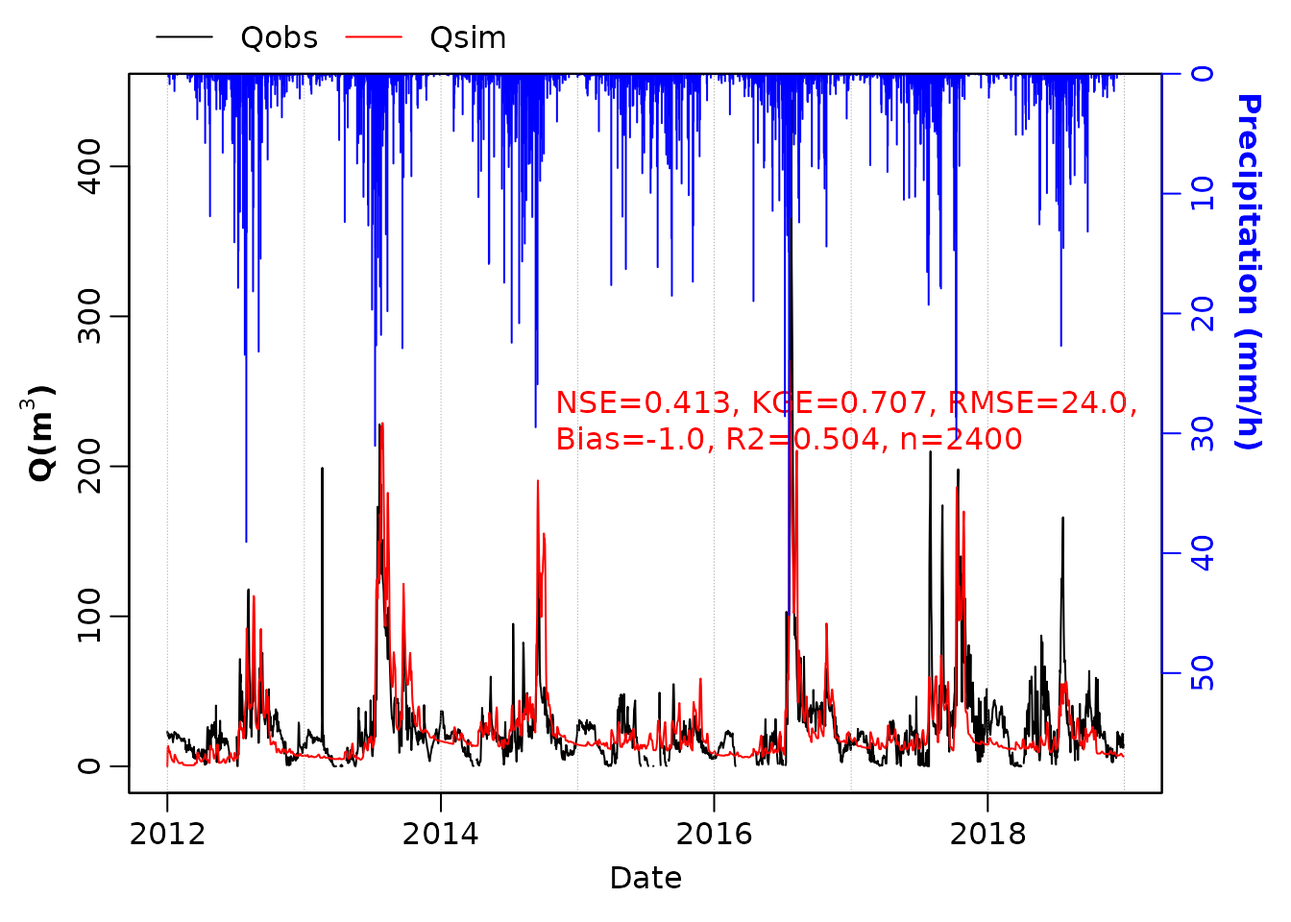
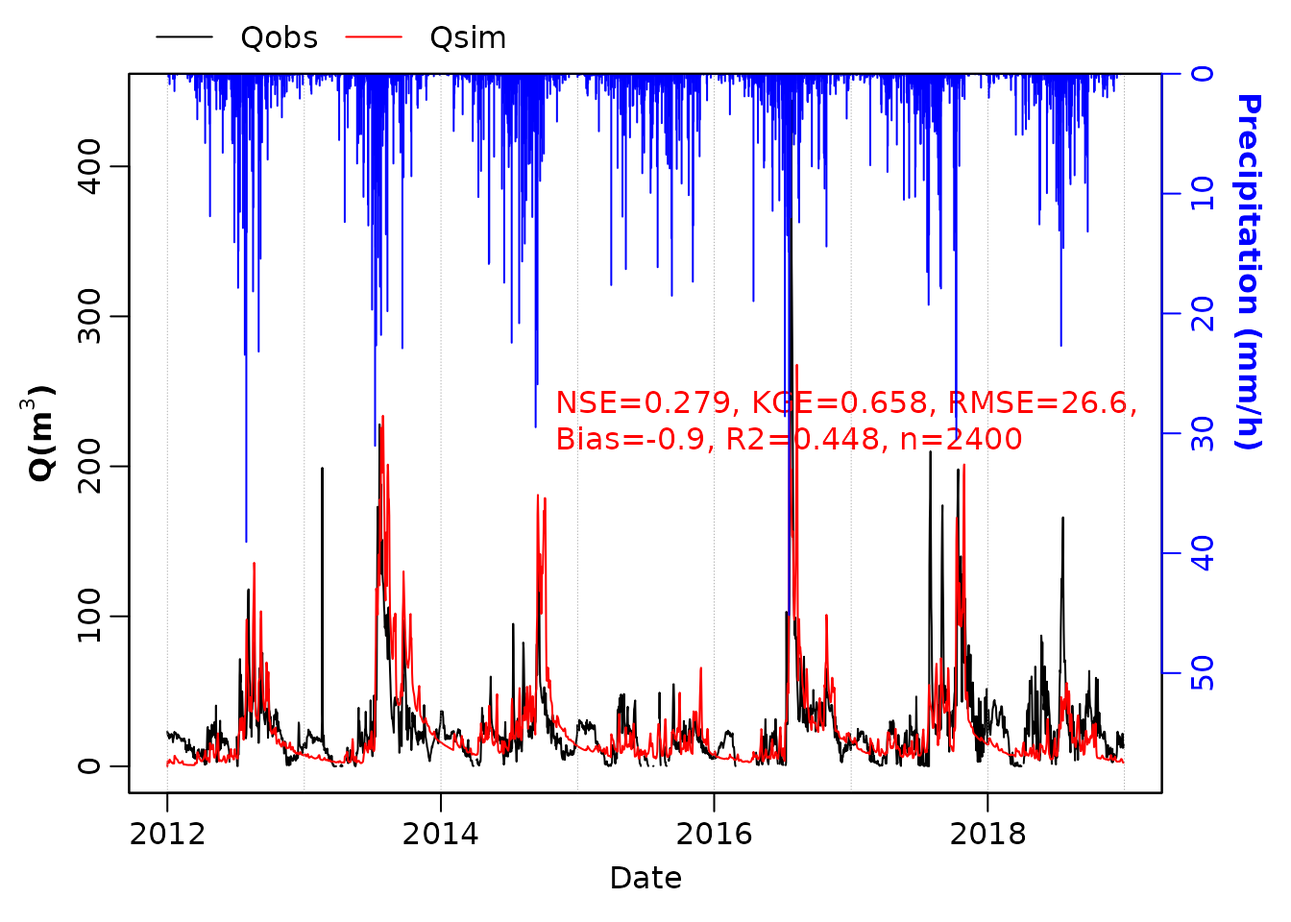
Deploying to gh-pages from @ CUG-hydro/hydroTools@e607863d7434b7680bc60937867b2390d8fc11ee 🚀

diff --git a/articles/calim_XAJ.html b/articles/calim_XAJ.html
@@ -117,6 +117,19 @@ Rcpp版的XAJ模型为钟睿达师弟所写，使用请正确引用。</p>
 <p>下文模拟的是2021年10月山西暴雨中心的汾河流域，河津站。以2012-2018年作为率定期，将该时段的所有数据拿来训练。可以看到KGE最终可达0.707。</p>
 <div class="sourceCode" id="cb1"><pre class="downlit sourceCode r">
 <code class="sourceCode R"><span><span class="kw"><a href="https://rdrr.io/r/base/library.html" class="external-link">library</a></span><span class="op">(</span><span class="va">hydroTools</span><span class="op">)</span> <span class="co"># remotes::install_github("rpkgs/hydroTools")</span></span>
+<span><span class="co">#&gt; The legacy packages maptools, rgdal, and rgeos, underpinning the sp package,</span></span>
+<span><span class="co">#&gt; which was just loaded, will retire in October 2023.</span></span>
+<span><span class="co">#&gt; Please refer to R-spatial evolution reports for details, especially</span></span>
+<span><span class="co">#&gt; https://r-spatial.org/r/2023/05/15/evolution4.html.</span></span>
+<span><span class="co">#&gt; It may be desirable to make the sf package available;</span></span>
+<span><span class="co">#&gt; package maintainers should consider adding sf to Suggests:.</span></span>
+<span><span class="co">#&gt; The sp package is now running under evolution status 2</span></span>
+<span><span class="co">#&gt;      (status 2 uses the sf package in place of rgdal)</span></span>
+<span><span class="co">#&gt; Please note that 'maptools' will be retired during October 2023,</span></span>
+<span><span class="co">#&gt; plan transition at your earliest convenience (see</span></span>
+<span><span class="co">#&gt; https://r-spatial.org/r/2023/05/15/evolution4.html and earlier blogs</span></span>
+<span><span class="co">#&gt; for guidance);some functionality will be moved to 'sp'.</span></span>
+<span><span class="co">#&gt;  Checking rgeos availability: FALSE</span></span>
 <span></span>
 <span><span class="va">infile</span> <span class="op">=</span> <span class="fu"><a href="https://rdrr.io/r/base/system.file.html" class="external-link">system.file</a></span><span class="op">(</span><span class="st">"extdata/XAJ_input_Hejin_2012-2018.rda"</span>, package <span class="op">=</span> <span class="st">"hydroTools"</span><span class="op">)</span></span>
 <span><span class="fu"><a href="https://rdrr.io/r/base/load.html" class="external-link">load</a></span><span class="op">(</span><span class="va">infile</span><span class="op">)</span></span>
@@ -124,40 +137,11 @@ Rcpp版的XAJ模型为钟睿达师弟所写，使用请正确引用。</p>
 <span><span class="va">df</span> <span class="op">=</span> <span class="va">input</span><span class="op">$</span><span class="va">data</span></span>
 <span><span class="va">res</span> <span class="op">&lt;-</span> <span class="fu"><a href="../reference/XAJ_calib.html">XAJ_calib</a></span><span class="op">(</span><span class="va">df</span><span class="op">$</span><span class="va">Qobs</span>, <span class="va">df</span><span class="op">$</span><span class="va">prcp</span>, <span class="va">df</span><span class="op">$</span><span class="va">ET0</span>, date <span class="op">=</span> <span class="va">df</span><span class="op">$</span><span class="va">date</span>,</span>
 <span>    <span class="va">input</span><span class="op">$</span><span class="va">area</span>, dt <span class="op">=</span> <span class="fl">24</span>, maxn <span class="op">=</span> <span class="fl">1000</span><span class="op">)</span></span>
-<span><span class="co">#&gt; 52 best -0.071 function convergence 200 parameter convergence 7798.76 </span></span>
-<span><span class="co">#&gt; 81 best -0.071 function convergence 200 parameter convergence 6580.998 </span></span>
-<span><span class="co">#&gt; 111 best -0.131 function convergence 200 parameter convergence 5480.133 </span></span>
-<span><span class="co">#&gt; 143 best -0.215 function convergence 200 parameter convergence 4733.328 </span></span>
-<span><span class="co">#&gt; 171 best -0.307 function convergence 200 parameter convergence 4350.594 </span></span>
-<span><span class="co">#&gt; 204 best -0.348 function convergence -132 parameter convergence 4276.417 </span></span>
-<span><span class="co">#&gt; 234 best -0.432 function convergence -144 parameter convergence 3623.459 </span></span>
-<span><span class="co">#&gt; 266 best -0.579 function convergence -126 parameter convergence 3126.294 </span></span>
-<span><span class="co">#&gt; 296 best -0.593 function convergence -93.7 parameter convergence 2813.707 </span></span>
-<span><span class="co">#&gt; 327 best -0.63 function convergence -69 parameter convergence 1995.129 </span></span>
-<span><span class="co">#&gt; 356 best -0.65 function convergence -60.4 parameter convergence 1642.616 </span></span>
-<span><span class="co">#&gt; 384 best -0.657 function convergence -41.2 parameter convergence 1447.285 </span></span>
-<span><span class="co">#&gt; 410 best -0.665 function convergence -13.9 parameter convergence 1075.695 </span></span>
-<span><span class="co">#&gt; 437 best -0.671 function convergence -12.3 parameter convergence 887.2404 </span></span>
-<span><span class="co">#&gt; 466 best -0.676 function convergence -7.02 parameter convergence 851.3788 </span></span>
-<span><span class="co">#&gt; 495 best -0.683 function convergence -4.93 parameter convergence 603.4246 </span></span>
-<span><span class="co">#&gt; 522 best -0.685 function convergence -4.18 parameter convergence 568.879 </span></span>
-<span><span class="co">#&gt; 549 best -0.688 function convergence -3.37 parameter convergence 520.1898 </span></span>
-<span><span class="co">#&gt; 580 best -0.694 function convergence -3.35 parameter convergence 538.2989 </span></span>
-<span><span class="co">#&gt; 614 best -0.696 function convergence -2.98 parameter convergence 527.9092 </span></span>
-<span><span class="co">#&gt; 640 best -0.697 function convergence -2.11 parameter convergence 372.9265 </span></span>
-<span><span class="co">#&gt; 669 best -0.7 function convergence -2.09 parameter convergence 361.8326 </span></span>
-<span><span class="co">#&gt; 697 best -0.702 function convergence -2.09 parameter convergence 334.4351 </span></span>
-<span><span class="co">#&gt; 726 best -0.703 function convergence -1.28 parameter convergence 308.2153 </span></span>
-<span><span class="co">#&gt; 755 best -0.706 function convergence -1.37 parameter convergence 285.4627 </span></span>
-<span><span class="co">#&gt; 785 best -0.706 function convergence -1.21 parameter convergence 268.4868 </span></span>
-<span><span class="co">#&gt; 818 best -0.706 function convergence -0.881 parameter convergence 230.1033 </span></span>
-<span><span class="co">#&gt; 847 best -0.706 function convergence -0.569 parameter convergence 178.9205 </span></span>
-<span><span class="co">#&gt; 872 best -0.706 function convergence -0.476 parameter convergence 139.1498 </span></span>
-<span><span class="co">#&gt; 904 best -0.707 function convergence -0.145 parameter convergence 92.73729 </span></span>
-<span><span class="co">#&gt; 930 best -0.707 function convergence -0.166 parameter convergence 70.60406 </span></span>
-<span><span class="co">#&gt; 955 best -0.707 function convergence -0.147 parameter convergence 62.88353 </span></span>
-<span><span class="co">#&gt; 981 best -0.707 function convergence -0.0969 parameter convergence 55.37127 </span></span>
-<span><span class="co">#&gt; 1008 best -0.707 function convergence -0.0591 parameter convergence 34.78426</span></span>
+<span><span class="co">#&gt; 332 best -0.146 function convergence 200 parameter convergence 9806.662 </span></span>
+<span><span class="co">#&gt; 517 best -0.366 function convergence 200 parameter convergence 9521.885 </span></span>
+<span><span class="co">#&gt; 707 best -0.425 function convergence 200 parameter convergence 8104.431 </span></span>
+<span><span class="co">#&gt; 890 best -0.577 function convergence 200 parameter convergence 6517.944 </span></span>
+<span><span class="co">#&gt; 1077 best -0.659 function convergence 200 parameter convergence 5783.561</span></span>
 <span></span>
 <span><span class="fu"><a href="https://rdrr.io/r/base/print.html" class="external-link">print</a></span><span class="op">(</span><span class="fu"><a href="https://rdrr.io/r/utils/str.html" class="external-link">str</a></span><span class="op">(</span><span class="va">res</span><span class="op">)</span>, <span class="fl">2</span><span class="op">)</span></span>
 <span><span class="co">#&gt; List of 4</span></span>
@@ -166,43 +150,43 @@ Rcpp版的XAJ模型为钟睿达师弟所写，使用请正确引用。</p>
 <span><span class="co">#&gt;   ..$ prcp: num [1:2556] 0 0.02 0.04 0.25 0.01 0 0.87 0.01 0 0 ...</span></span>
 <span><span class="co">#&gt;   ..$ ET0 : num [1:2556] 0.28 0.77 0.715 0.35 0.275 ...</span></span>
 <span><span class="co">#&gt;   ..$ Qobs: num [1:2556] 23.2 21.1 20.5 21.9 19.6 18.5 20.7 20.7 19.3 20.8 ...</span></span>
-<span><span class="co">#&gt;   ..$ Qsim: num [1:2556] 0 12.3 13.6 12.4 10.8 ...</span></span>
+<span><span class="co">#&gt;   ..$ Qsim: num [1:2556] 0 3.44 3.32 2.96 2.63 ...</span></span>
 <span><span class="co">#&gt;   ..- attr(*, ".internal.selfref")=&lt;externalptr&gt; </span></span>
 <span><span class="co">#&gt;  $ gof         : tibble [1 × 11] (S3: tbl_df/tbl/data.frame)</span></span>
-<span><span class="co">#&gt;   ..$ R        : num 0.71</span></span>
-<span><span class="co">#&gt;   ..$ pvalue   : num 0</span></span>
-<span><span class="co">#&gt;   ..$ R2       : num 0.504</span></span>
-<span><span class="co">#&gt;   ..$ NSE      : num 0.413</span></span>
-<span><span class="co">#&gt;   ..$ KGE      : num 0.707</span></span>
-<span><span class="co">#&gt;   ..$ RMSE     : num 24</span></span>
-<span><span class="co">#&gt;   ..$ MAE      : num 14.5</span></span>
-<span><span class="co">#&gt;   ..$ Bias     : num -1.04</span></span>
-<span><span class="co">#&gt;   ..$ Bias_perc: num -0.0391</span></span>
-<span><span class="co">#&gt;   ..$ AI       : num 0.834</span></span>
+<span><span class="co">#&gt;   ..$ R        : num 0.669</span></span>
+<span><span class="co">#&gt;   ..$ pvalue   : num 8.69e-312</span></span>
+<span><span class="co">#&gt;   ..$ R2       : num 0.448</span></span>
+<span><span class="co">#&gt;   ..$ NSE      : num 0.279</span></span>
+<span><span class="co">#&gt;   ..$ KGE      : num 0.658</span></span>
+<span><span class="co">#&gt;   ..$ RMSE     : num 26.6</span></span>
+<span><span class="co">#&gt;   ..$ MAE      : num 15.9</span></span>
+<span><span class="co">#&gt;   ..$ Bias     : num -0.933</span></span>
+<span><span class="co">#&gt;   ..$ Bias_perc: num -0.035</span></span>
+<span><span class="co">#&gt;   ..$ AI       : num 0.806</span></span>
 <span><span class="co">#&gt;   ..$ n_sim    : int 2400</span></span>
 <span><span class="co">#&gt;  $ model       :List of 3</span></span>
-<span><span class="co">#&gt;   ..$ par : Named num [1:15] 1.45202 0.00799 19.03719 79.44638 56.03892 ...</span></span>
+<span><span class="co">#&gt;   ..$ par : Named num [1:15] 1.44554 0.00843 19.80357 85.75426 57.61422 ...</span></span>
 <span><span class="co">#&gt;   .. ..- attr(*, "names")= chr [1:15] "KC" "IM" "WUM" "WLM" ...</span></span>
 <span><span class="co">#&gt;   ..$ area: num 38900</span></span>
 <span><span class="co">#&gt;   ..$ dt  : num 24</span></span>
 <span><span class="co">#&gt;  $ intermediate:'data.frame':    2556 obs. of  17 variables:</span></span>
 <span><span class="co">#&gt;   ..$ date: Date[1:2556], format: "2012-01-01" "2012-01-02" ...</span></span>
-<span><span class="co">#&gt;   ..$ E   : num [1:2556] 0.406 1.118 1.039 0.508 0.399 ...</span></span>
-<span><span class="co">#&gt;   ..$ EU  : num [1:2556] 0.406 1.118 1.039 0.508 0.399 ...</span></span>
+<span><span class="co">#&gt;   ..$ E   : num [1:2556] 0.405 1.113 1.034 0.506 0.398 ...</span></span>
+<span><span class="co">#&gt;   ..$ EU  : num [1:2556] 0.405 1.113 1.034 0.506 0.398 ...</span></span>
 <span><span class="co">#&gt;   ..$ EL  : num [1:2556] 0 0 0 0 0 0 0 0 0 0 ...</span></span>
 <span><span class="co">#&gt;   ..$ ED  : num [1:2556] 0 0 0 0 0 0 0 0 0 0 ...</span></span>
-<span><span class="co">#&gt;   ..$ W   : num [1:2556] 123 122 121 121 120 ...</span></span>
-<span><span class="co">#&gt;   ..$ WU  : num [1:2556] 14.8 13.7 12.7 12.5 12.1 ...</span></span>
-<span><span class="co">#&gt;   ..$ WL  : num [1:2556] 63.6 63.6 63.6 63.6 63.6 ...</span></span>
-<span><span class="co">#&gt;   ..$ WD  : num [1:2556] 44.8 44.8 44.8 44.8 44.8 ...</span></span>
+<span><span class="co">#&gt;   ..$ W   : num [1:2556] 130 129 128 128 127 ...</span></span>
+<span><span class="co">#&gt;   ..$ WU  : num [1:2556] 15.4 14.3 13.4 13.1 12.7 ...</span></span>
+<span><span class="co">#&gt;   ..$ WL  : num [1:2556] 68.6 68.6 68.6 68.6 68.6 ...</span></span>
+<span><span class="co">#&gt;   ..$ WD  : num [1:2556] 46.1 46.1 46.1 46.1 46.1 ...</span></span>
 <span><span class="co">#&gt;   ..$ R   : num [1:2556] 0 0 0 0 0 ...</span></span>
-<span><span class="co">#&gt;   ..$ RS  : num [1:2556] 0.00 1.60e-04 3.20e-04 2.00e-03 7.99e-05 ...</span></span>
-<span><span class="co">#&gt;   ..$ RI  : num [1:2556] 0.92766 0.22936 0.05682 0.01426 0.00357 ...</span></span>
-<span><span class="co">#&gt;   ..$ RG  : num [1:2556] 0.7281 0.18 0.0446 0.0112 0.0028 ...</span></span>
-<span><span class="co">#&gt;   ..$ Q   : num [1:2556] 0 12.3 13.6 12.4 10.8 ...</span></span>
-<span><span class="co">#&gt;   ..$ QS  : num [1:2556] 0.00 4.82e-07 1.85e-06 9.43e-06 1.76e-05 ...</span></span>
-<span><span class="co">#&gt;   ..$ QI  : num [1:2556] 0 11.9 13.1 11.9 10.4 ...</span></span>
-<span><span class="co">#&gt;   ..$ QG  : num [1:2556] 0 0.364 0.453 0.474 0.478 ...</span></span>
+<span><span class="co">#&gt;   ..$ RS  : num [1:2556] 0.00 1.69e-04 3.37e-04 2.11e-03 8.43e-05 ...</span></span>
+<span><span class="co">#&gt;   ..$ RI  : num [1:2556] 8.74e-01 7.11e-02 5.80e-03 4.79e-04 3.94e-05 ...</span></span>
+<span><span class="co">#&gt;   ..$ RG  : num [1:2556] 6.57e-01 5.35e-02 4.36e-03 3.60e-04 2.97e-05 ...</span></span>
+<span><span class="co">#&gt;   ..$ Q   : num [1:2556] 0 3.44 3.32 2.96 2.63 ...</span></span>
+<span><span class="co">#&gt;   ..$ QS  : num [1:2556] 0.00 2.23e-10 1.06e-09 5.73e-09 1.60e-08 ...</span></span>
+<span><span class="co">#&gt;   ..$ QI  : num [1:2556] 0 3.07 2.93 2.58 2.25 ...</span></span>
+<span><span class="co">#&gt;   ..$ QG  : num [1:2556] 0 0.363 0.389 0.387 0.383 ...</span></span>
 <span><span class="co">#&gt; NULL</span></span></code></pre></div>
 <p>从图来看，模型整体模拟结果尚可。但部分洪水过程无法捕捉到（如2018年春秋季节），怀疑是流域内水库放水的人为活动影响所致。</p>
 <div class="sourceCode" id="cb2"><pre class="downlit sourceCode r">
@@ -226,13 +210,13 @@ Rcpp版的XAJ模型为钟睿达师弟所写，使用请正确引用。</p>
 <div class="sourceCode" id="cb3"><pre class="downlit sourceCode r">
 <code class="sourceCode R"><span><span class="va">res_valid</span> <span class="op">=</span> <span class="fu"><a href="../reference/XAJ_predict.html">XAJ_predict</a></span><span class="op">(</span><span class="va">res</span><span class="op">$</span><span class="va">model</span>, newdata <span class="op">=</span> <span class="va">df</span><span class="op">)</span></span>
 <span><span class="fu"><a href="https://rdrr.io/r/utils/head.html" class="external-link">head</a></span><span class="op">(</span><span class="va">res_valid</span><span class="op">)</span></span>
-<span><span class="co">#&gt;          date Qobs prcp       ET0      Qsim</span></span>
-<span><span class="co">#&gt; 1: 2012-01-01 23.2 0.00 0.2798821  0.000000</span></span>
-<span><span class="co">#&gt; 2: 2012-01-02 21.1 0.02 0.7696797 12.292826</span></span>
-<span><span class="co">#&gt; 3: 2012-01-03 20.5 0.04 0.7152260 13.581305</span></span>
-<span><span class="co">#&gt; 4: 2012-01-04 21.9 0.25 0.3498458 12.412039</span></span>
-<span><span class="co">#&gt; 5: 2012-01-05 19.6 0.01 0.2750719 10.844921</span></span>
-<span><span class="co">#&gt; 6: 2012-01-06 18.5 0.00 0.3265188  9.365454</span></span></code></pre></div>
+<span><span class="co">#&gt;          date Qobs prcp       ET0     Qsim</span></span>
+<span><span class="co">#&gt; 1: 2012-01-01 23.2 0.00 0.2798821 0.000000</span></span>
+<span><span class="co">#&gt; 2: 2012-01-02 21.1 0.02 0.7696797 3.435587</span></span>
+<span><span class="co">#&gt; 3: 2012-01-03 20.5 0.04 0.7152260 3.319556</span></span>
+<span><span class="co">#&gt; 4: 2012-01-04 21.9 0.25 0.3498458 2.964277</span></span>
+<span><span class="co">#&gt; 5: 2012-01-05 19.6 0.01 0.2750719 2.632883</span></span>
+<span><span class="co">#&gt; 6: 2012-01-06 18.5 0.00 0.3265188 2.341542</span></span></code></pre></div>
 <p>安装方法</p>
 <div class="sourceCode" id="cb4"><pre class="downlit sourceCode r">
 <code class="sourceCode R"><span><span class="fu">remotes</span><span class="fu">::</span><span class="fu">install_github</span><span class="op">(</span><span class="st">"rpkgs/hydroTools"</span><span class="op">)</span></span></code></pre></div>

diff --git a/articles/calib_lm.html b/articles/calib_lm.html
@@ -108,6 +108,19 @@
 </h2>
 <div class="sourceCode" id="cb1"><pre class="downlit sourceCode r">
 <code class="sourceCode R"><span><span class="kw"><a href="https://rdrr.io/r/base/library.html" class="external-link">library</a></span><span class="op">(</span><span class="va">hydroTools</span><span class="op">)</span></span>
+<span><span class="co">#&gt; The legacy packages maptools, rgdal, and rgeos, underpinning the sp package,</span></span>
+<span><span class="co">#&gt; which was just loaded, will retire in October 2023.</span></span>
+<span><span class="co">#&gt; Please refer to R-spatial evolution reports for details, especially</span></span>
+<span><span class="co">#&gt; https://r-spatial.org/r/2023/05/15/evolution4.html.</span></span>
+<span><span class="co">#&gt; It may be desirable to make the sf package available;</span></span>
+<span><span class="co">#&gt; package maintainers should consider adding sf to Suggests:.</span></span>
+<span><span class="co">#&gt; The sp package is now running under evolution status 2</span></span>
+<span><span class="co">#&gt;      (status 2 uses the sf package in place of rgdal)</span></span>
+<span><span class="co">#&gt; Please note that 'maptools' will be retired during October 2023,</span></span>
+<span><span class="co">#&gt; plan transition at your earliest convenience (see</span></span>
+<span><span class="co">#&gt; https://r-spatial.org/r/2023/05/15/evolution4.html and earlier blogs</span></span>
+<span><span class="co">#&gt; for guidance);some functionality will be moved to 'sp'.</span></span>
+<span><span class="co">#&gt;  Checking rgeos availability: FALSE</span></span>
 <span><span class="kw"><a href="https://rdrr.io/r/base/library.html" class="external-link">library</a></span><span class="op">(</span><span class="va"><a href="https://ggplot2.tidyverse.org" class="external-link">ggplot2</a></span><span class="op">)</span></span>
 <span></span>
 <span><span class="co"># simulation function</span></span>
@@ -153,40 +166,42 @@
 <span><span class="va">opt</span> <span class="op">=</span> <span class="fu">rtop</span><span class="fu">::</span><span class="fu"><a href="https://rdrr.io/pkg/rtop/man/sceua.html" class="external-link">sceua</a></span><span class="op">(</span><span class="va">goal</span>, par <span class="op">=</span> <span class="va">par0</span>, lower <span class="op">=</span> <span class="va">par_l</span>, upper <span class="op">=</span> <span class="va">par_u</span>, </span>
 <span>  x <span class="op">=</span> <span class="va">x</span>, yobs <span class="op">=</span> <span class="va">yobs</span>, <span class="co"># other parameters passed to `goal`</span></span>
 <span>  maxn <span class="op">=</span> <span class="fl">1e3</span><span class="op">)</span> </span>
-<span><span class="co">#&gt; 50 best 3.48 function convergence 200 parameter convergence 4751.175 </span></span>
-<span><span class="co">#&gt; 79 best 2.19 function convergence 200 parameter convergence 3073.55 </span></span>
-<span><span class="co">#&gt; 110 best 1.88 function convergence 200 parameter convergence 2649.375 </span></span>
-<span><span class="co">#&gt; 142 best 1.75 function convergence 200 parameter convergence 2223.659 </span></span>
-<span><span class="co">#&gt; 169 best 1.75 function convergence 200 parameter convergence 1413.179 </span></span>
-<span><span class="co">#&gt; 200 best 1.74 function convergence 66.6 parameter convergence 1208.604 </span></span>
-<span><span class="co">#&gt; 233 best 1.74 function convergence 22.8 parameter convergence 1210.021 </span></span>
-<span><span class="co">#&gt; 261 best 1.74 function convergence 7.39 parameter convergence 732.3515 </span></span>
-<span><span class="co">#&gt; 292 best 1.74 function convergence 0.224 parameter convergence 506.2702 </span></span>
-<span><span class="co">#&gt; 323 best 1.74 function convergence 0.224 parameter convergence 489.2278 </span></span>
-<span><span class="co">#&gt; 353 best 1.74 function convergence 0.0909 parameter convergence 473.0482 </span></span>
-<span><span class="co">#&gt; 382 best 1.74 function convergence 0.0373 parameter convergence 361.5516 </span></span>
-<span><span class="co">#&gt; 409 best 1.74 function convergence 0.000266 parameter convergence 328.5202 </span></span>
-<span><span class="co">#&gt; 441 best 1.74 function convergence 0.000266 parameter convergence 342.0424 </span></span>
-<span><span class="co">#&gt; 468 best 1.74 function convergence 3.55e-05 parameter convergence 328.5202 </span></span>
-<span><span class="co">#&gt; 499 best 1.74 function convergence 1.56e-05 parameter convergence 388.8102 </span></span>
-<span><span class="co">#&gt; 528 best 1.74 function convergence 3.11e-07 parameter convergence 275.6656 </span></span>
-<span><span class="co">#&gt; 559 best 1.74 function convergence 2.38e-09 parameter convergence 176.74 </span></span>
-<span><span class="co">#&gt; 587 best 1.74 function convergence 2.38e-09 parameter convergence 142.3894 </span></span>
-<span><span class="co">#&gt; 619 best 1.74 function convergence 2.15e-09 parameter convergence 138.2319 </span></span>
-<span><span class="co">#&gt; 650 best 1.74 function convergence 1.25e-09 parameter convergence 119.4634 </span></span>
-<span><span class="co">#&gt; 684 best 1.74 function convergence 1.58e-12 parameter convergence 131.0169 </span></span>
-<span><span class="co">#&gt; 715 best 1.74 function convergence 1.58e-12 parameter convergence 83.67649 </span></span>
-<span><span class="co">#&gt; 746 best 1.74 function convergence 1.61e-12 parameter convergence 86.24897 </span></span>
-<span><span class="co">#&gt; 774 best 1.74 function convergence 2.17e-13 parameter convergence 86.24897 </span></span>
-<span><span class="co">#&gt; 799 best 1.74 function convergence 2.17e-13 parameter convergence 86.24897 </span></span>
-<span><span class="co">#&gt; 825 best 1.74 function convergence 2.55e-14 parameter convergence 85.89433 </span></span>
-<span><span class="co">#&gt; 851 best 1.74 function convergence 2.55e-14 parameter convergence 85.89433 </span></span>
-<span><span class="co">#&gt; 877 best 1.74 function convergence 0 parameter convergence 64.83542 </span></span>
-<span><span class="co">#&gt; 903 best 1.74 function convergence 0 parameter convergence 57.87813 </span></span>
-<span><span class="co">#&gt; 934 best 1.74 function convergence 0 parameter convergence 57.87813 </span></span>
-<span><span class="co">#&gt; 960 best 1.74 function convergence 0 parameter convergence 57.87813 </span></span>
-<span><span class="co">#&gt; 991 best 1.74 function convergence 0 parameter convergence 57.87813 </span></span>
-<span><span class="co">#&gt; 1016 best 1.74 function convergence 0 parameter convergence 57.87813</span></span>
+<span><span class="co">#&gt; 51 best 1.84 function convergence 200 parameter convergence 7610.145 </span></span>
+<span><span class="co">#&gt; 79 best 1.76 function convergence 200 parameter convergence 4530.619 </span></span>
+<span><span class="co">#&gt; 105 best 1.75 function convergence 200 parameter convergence 2690.471 </span></span>
+<span><span class="co">#&gt; 131 best 1.74 function convergence 200 parameter convergence 2931.736 </span></span>
+<span><span class="co">#&gt; 159 best 1.74 function convergence 200 parameter convergence 3057.855 </span></span>
+<span><span class="co">#&gt; 184 best 1.74 function convergence 5.71 parameter convergence 2478.465 </span></span>
+<span><span class="co">#&gt; 209 best 1.74 function convergence 1.09 parameter convergence 2314.297 </span></span>
+<span><span class="co">#&gt; 234 best 1.74 function convergence 0.354 parameter convergence 1532.078 </span></span>
+<span><span class="co">#&gt; 259 best 1.74 function convergence 0.000384 parameter convergence 1725.886 </span></span>
+<span><span class="co">#&gt; 284 best 1.74 function convergence 0.000384 parameter convergence 1725.886 </span></span>
+<span><span class="co">#&gt; 309 best 1.74 function convergence 2.79e-06 parameter convergence 1397.07 </span></span>
+<span><span class="co">#&gt; 335 best 1.74 function convergence 4.28e-08 parameter convergence 976.0489 </span></span>
+<span><span class="co">#&gt; 361 best 1.74 function convergence 4.28e-08 parameter convergence 452.3405 </span></span>
+<span><span class="co">#&gt; 387 best 1.74 function convergence 1.32e-08 parameter convergence 355.4915 </span></span>
+<span><span class="co">#&gt; 414 best 1.74 function convergence 6.81e-11 parameter convergence 309.5118 </span></span>
+<span><span class="co">#&gt; 441 best 1.74 function convergence 1.96e-11 parameter convergence 345.5275 </span></span>
+<span><span class="co">#&gt; 469 best 1.74 function convergence 2.19e-12 parameter convergence 356.8678 </span></span>
+<span><span class="co">#&gt; 501 best 1.74 function convergence 8.92e-13 parameter convergence 238.4948 </span></span>
+<span><span class="co">#&gt; 535 best 1.74 function convergence 7.65e-14 parameter convergence 312.2249 </span></span>
+<span><span class="co">#&gt; 562 best 1.74 function convergence 2.55e-14 parameter convergence 247.6701 </span></span>
+<span><span class="co">#&gt; 595 best 1.74 function convergence 2.55e-14 parameter convergence 253.8331 </span></span>
+<span><span class="co">#&gt; 622 best 1.74 function convergence 0 parameter convergence 253.8331 </span></span>
+<span><span class="co">#&gt; 650 best 1.74 function convergence 0 parameter convergence 296.1607 </span></span>
+<span><span class="co">#&gt; 677 best 1.74 function convergence 0 parameter convergence 220.8968 </span></span>
+<span><span class="co">#&gt; 704 best 1.74 function convergence 0 parameter convergence 196.6364 </span></span>
+<span><span class="co">#&gt; 731 best 1.74 function convergence 0 parameter convergence 196.6364 </span></span>
+<span><span class="co">#&gt; 756 best 1.74 function convergence 0 parameter convergence 196.6364 </span></span>
+<span><span class="co">#&gt; 781 best 1.74 function convergence 0 parameter convergence 196.6364 </span></span>
+<span><span class="co">#&gt; 806 best 1.74 function convergence 0 parameter convergence 196.6364 </span></span>
+<span><span class="co">#&gt; 835 best 1.74 function convergence 0 parameter convergence 196.6364 </span></span>
+<span><span class="co">#&gt; 865 best 1.74 function convergence 0 parameter convergence 196.6364 </span></span>
+<span><span class="co">#&gt; 890 best 1.74 function convergence 0 parameter convergence 200.6591 </span></span>
+<span><span class="co">#&gt; 920 best 1.74 function convergence 0 parameter convergence 196.6364 </span></span>
+<span><span class="co">#&gt; 953 best 1.74 function convergence 0 parameter convergence 196.6364 </span></span>
+<span><span class="co">#&gt; 982 best 1.74 function convergence 0 parameter convergence 196.6364 </span></span>
+<span><span class="co">#&gt; 1008 best 1.74 function convergence 0 parameter convergence 196.6364</span></span>
 <span><span class="va">par_opt</span> <span class="op">=</span> <span class="va">opt</span><span class="op">$</span><span class="va">par</span> <span class="co"># SCEUA生成的最优参数</span></span></code></pre></div>
 </div>
 <div class="section level2">

diff --git a/articles/sun_angle.html b/articles/sun_angle.html
@@ -124,13 +124,13 @@
 <span><span class="co">## 太阳方位角: 183.82    </span></span>
 <span><span class="co">## ---</span></span>
 <span><span class="co">## 北京时间       : 2022-12-12 12:35:00</span></span>
-<span><span class="co">## 当地时间       : 2022-12-12 12:13:25</span></span>
+<span><span class="co">## 当地时间       : 2022-12-12 12:13:25.2</span></span>
 <span><span class="co">## ---</span></span>
-<span><span class="co">## 日出时间(local): 2022-12-12 06:58:26</span></span>
-<span><span class="co">## 日落时间(local): 2022-12-12 17:01:33</span></span>
+<span><span class="co">## 日出时间(local): 2022-12-12 06:58:26.371031</span></span>
+<span><span class="co">## 日落时间(local): 2022-12-12 17:01:33.628969</span></span>
 <span><span class="co">## ---</span></span>
-<span><span class="co">## 日出时间(UTC8) : 2022-12-12 07:20:01</span></span>
-<span><span class="co">## 日落时间(UTC8) : 2022-12-12 17:23:08</span></span></code></pre>
+<span><span class="co">## 日出时间(UTC8) : 2022-12-12 07:20:01.171031</span></span>
+<span><span class="co">## 日落时间(UTC8) : 2022-12-12 17:23:08.428969</span></span></code></pre>
 <div class="sourceCode" id="cb4"><pre class="downlit sourceCode r">
 <code class="sourceCode R"><span><span class="va">info</span></span></code></pre></div>
 <pre><code><span><span class="co">##    angle_elev angle_azimuth angle_sigma               delta_minute</span></span>
@@ -154,13 +154,13 @@
 <span><span class="co">## 太阳方位角: 217.10    </span></span>
 <span><span class="co">## ---</span></span>
 <span><span class="co">## 北京时间       : 2022-12-12 14:46:00</span></span>
-<span><span class="co">## 当地时间       : 2022-12-12 14:24:25</span></span>
+<span><span class="co">## 当地时间       : 2022-12-12 14:24:25.2</span></span>
 <span><span class="co">## ---</span></span>
-<span><span class="co">## 日出时间(local): 2022-12-12 06:58:26</span></span>
-<span><span class="co">## 日落时间(local): 2022-12-12 17:01:33</span></span>
+<span><span class="co">## 日出时间(local): 2022-12-12 06:58:26.371031</span></span>
+<span><span class="co">## 日落时间(local): 2022-12-12 17:01:33.628969</span></span>
 <span><span class="co">## ---</span></span>
-<span><span class="co">## 日出时间(UTC8) : 2022-12-12 07:20:01</span></span>
-<span><span class="co">## 日落时间(UTC8) : 2022-12-12 17:23:08</span></span></code></pre>
+<span><span class="co">## 日出时间(UTC8) : 2022-12-12 07:20:01.171031</span></span>
+<span><span class="co">## 日落时间(UTC8) : 2022-12-12 17:23:08.428969</span></span></code></pre>
 <div class="sourceCode" id="cb8"><pre class="downlit sourceCode r">
 <code class="sourceCode R"><span><span class="va">info</span></span></code></pre></div>
 <pre><code><span><span class="co">##    angle_elev angle_azimuth angle_sigma               delta_minute</span></span>

diff --git a/reference/GOF.html b/reference/GOF.html
@@ -138,7 +138,7 @@ calculate. See details in Zhang et al., (2015).</p></li>
 <span class="r-out co"><span class="r-pr">#&gt;</span> <span style="color: #949494;"># A tibble: 1 × 11</span></span>
 <span class="r-out co"><span class="r-pr">#&gt;</span>       R   pvalue    R2   NSE   KGE  RMSE   MAE   Bias Bias_perc    AI n_sim</span>
 <span class="r-out co"><span class="r-pr">#&gt;</span>   <span style="color: #949494; font-style: italic;">&lt;dbl&gt;</span>    <span style="color: #949494; font-style: italic;">&lt;dbl&gt;</span> <span style="color: #949494; font-style: italic;">&lt;dbl&gt;</span> <span style="color: #949494; font-style: italic;">&lt;dbl&gt;</span> <span style="color: #949494; font-style: italic;">&lt;dbl&gt;</span> <span style="color: #949494; font-style: italic;">&lt;dbl&gt;</span> <span style="color: #949494; font-style: italic;">&lt;dbl&gt;</span>  <span style="color: #949494; font-style: italic;">&lt;dbl&gt;</span>     <span style="color: #949494; font-style: italic;">&lt;dbl&gt;</span> <span style="color: #949494; font-style: italic;">&lt;dbl&gt;</span> <span style="color: #949494; font-style: italic;">&lt;int&gt;</span></span>
-<span class="r-out co"><span class="r-pr">#&gt;</span> <span style="color: #BCBCBC;">1</span> 0.968 1.16<span style="color: #949494;">e</span><span style="color: #BB0000;">-60</span> 0.937 0.936 0.228 0.247 0.198 0.026<span style="text-decoration: underline;">7</span>     0.771 0.984   100</span>
+<span class="r-out co"><span class="r-pr">#&gt;</span> <span style="color: #BCBCBC;">1</span> 0.977 1.20<span style="color: #949494;">e</span><span style="color: #BB0000;">-67</span> 0.955 0.950 0.330 0.234 0.183 0.067<span style="text-decoration: underline;">8</span>     0.670 0.987   100</span>
 <span class="r-in"><span></span></span>
 </code></pre></div>
     </div>

diff --git a/authors.html b/authors.html
@@ -80,14 +80,14 @@
     </div>
 
 
-    <p>Kong D (2022).
+    <p>Kong D (2023).
 <em>hydroTools: Tools for hydrological model</em>.
 R package version 0.1.7. 
 </p>
     <pre>@Manual{,
   title = {hydroTools: Tools for hydrological model},
   author = {Dongdong Kong},
-  year = {2022},
+  year = {2023},
   note = {R package version 0.1.7},
 }</pre>
 
